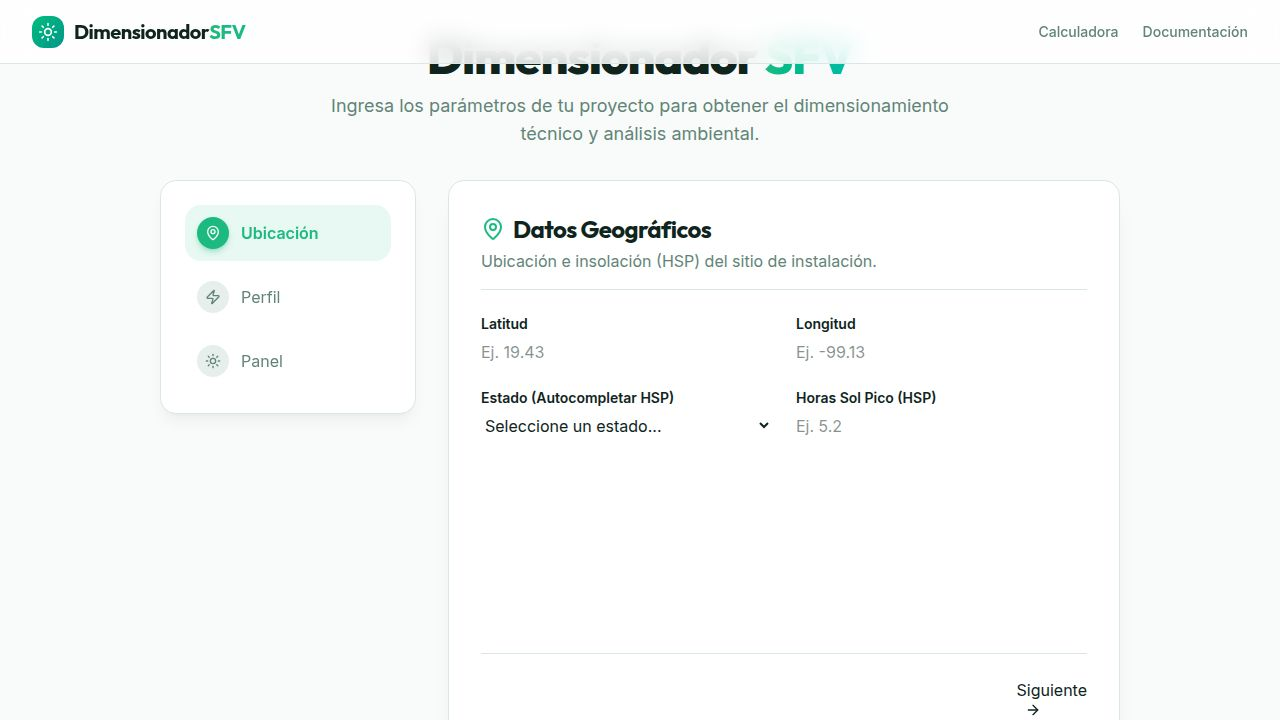
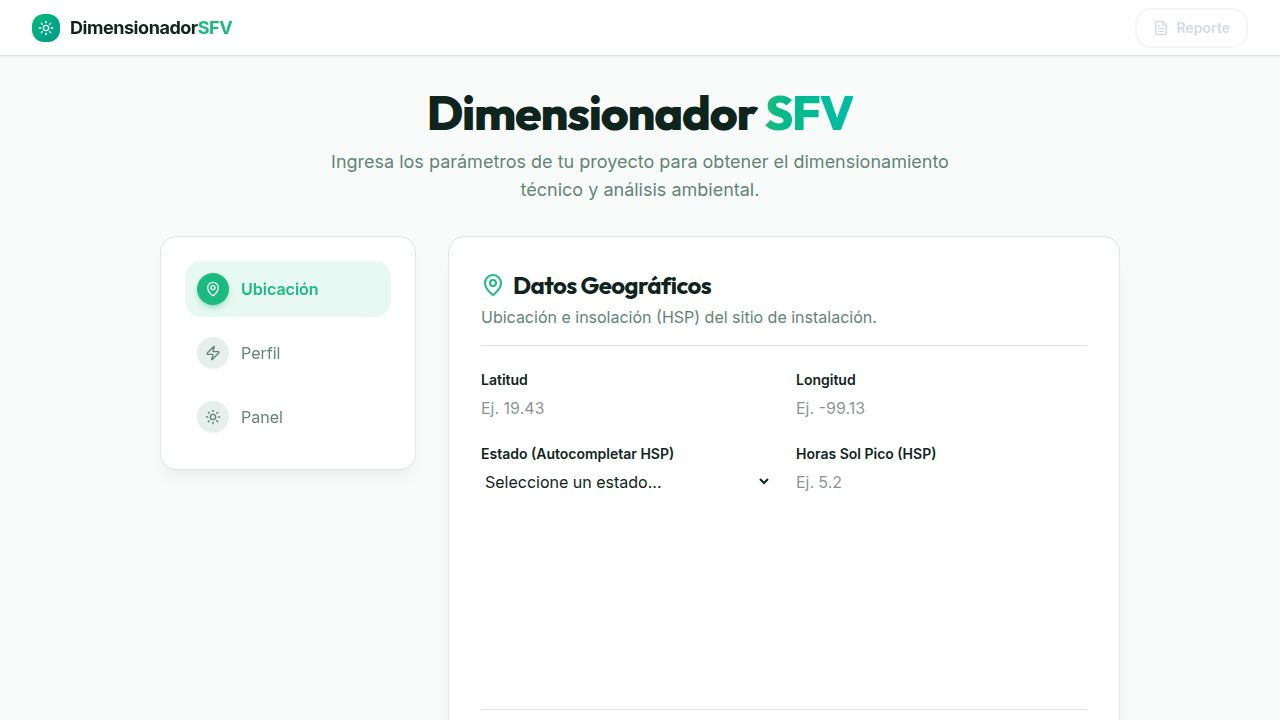
Add functionality to generate PDF reports and improve header display
Adds a PDF report generation utility, updates the header to be sticky, removes unused buttons, and adjusts page padding.

Replit-Commit-Author: Agent
Replit-Commit-Session-Id: e5eae582-5a54-41cc-aaa7-514647a9846a
Replit-Commit-Checkpoint-Type: full_checkpoint
Replit-Commit-Event-Id: b3f8f441-926d-4915-a9c9-da94dcde999f
Replit-Commit-Screenshot-Url: https://storage.googleapis.com/screenshot-production-us-central1/9bccb3e6-cee6-4aa5-baf6-f3cf551272fc/e5eae582-5a54-41cc-aaa7-514647a9846a/8LjCeW0
Replit-Helium-Checkpoint-Created: true

diff --git a/artifacts/sfv-dimensionador/src/lib/generate-pdf.ts b/artifacts/sfv-dimensionador/src/lib/generate-pdf.ts
@@ -1,0 +1,260 @@
+import { SFVResultado } from "@workspace/api-client-react";
+
+function row(label: string, value: string | number) {
+  return `<tr><td class="label">${label}</td><td class="value">${value}</td></tr>`;
+}
+
+function section(title: string, rows: string) {
+  return `
+    <div class="section">
+      <h2>${title}</h2>
+      <table>${rows}</table>
+    </div>`;
+}
+
+export function generatePDF(data: SFVResultado) {
+  const now = new Date().toLocaleDateString("es-MX", {
+    year: "numeric", month: "long", day: "numeric",
+  });
+
+  const paneles = data.paneles;
+  const baterias = data.baterias;
+  const ambiental = data.ambiental;
+
+  const panelesRows = [
+    row("Total de paneles", paneles.totalPaneles),
+    row("Paneles en serie", paneles.panelesSerie),
+    row("Paneles en paralelo", paneles.panelesParalelo),
+    row("Voltaje del sistema", `${paneles.voltajeSistema.toFixed(2)} V`),
+    row("Corriente del sistema", `${paneles.corrienteSistema.toFixed(2)} A`),
+  ].join("");
+
+  const bateriasRows = baterias ? [
+    row("Total de baterías", baterias.totalBaterias),
+    row("Baterías en serie", baterias.bateriasSerie),
+    row("Baterías en paralelo", baterias.bateriasParalelo),
+    row("Voltaje de batería", `${baterias.voltajeBateria} V`),
+    row("Capacidad nominal (Cn)", `${baterias.capacidadNominal.toFixed(2)} Ah`),
+    row("Profundidad de descarga (DoD)", `${(baterias.dod * 100).toFixed(0)}%`),
+  ].join("") : "";
+
+  const electricosRows = [
+    data.inversor ? row("Corriente mínima inversor", `${data.inversor.corrienteMinima.toFixed(2)} A`) : "",
+    data.regulador ? row("Corriente mínima regulador", `${data.regulador.corrienteMinima.toFixed(2)} A`) : "",
+    row("Corriente mínima cableado", `${data.cableado.corrienteMinima.toFixed(2)} A`),
+    data.protecciones ? row("Corriente fusible CC", `${data.protecciones.corrienteFusible.toFixed(2)} A`) : "",
+    data.protecciones?.breakerCC !== undefined ? row("Breaker CC", `${data.protecciones.breakerCC.toFixed(2)} A`) : "",
+    data.protecciones?.seccionadorVoltaje !== undefined ? row("Interruptor seccionador", `${data.protecciones.seccionadorVoltaje.toFixed(2)} V / ${data.protecciones.seccionadorCorriente?.toFixed(2)} A`) : "",
+    data.protecciones?.sobretensionesVoltaje !== undefined ? row("Protector sobretensiones", `${data.protecciones.sobretensionesVoltaje.toFixed(2)} V`) : "",
+    data.protecciones?.termomagneticoCorriente !== undefined ? row("Termomagnético CA", `${data.protecciones.termomagneticoCorriente.toFixed(2)} A`) : "",
+  ].join("");
+
+  const ambientalRows = [
+    row("Energía anual (1er año)", `${ambiental.energiaAnualKwh.toFixed(2)} kWh`),
+    row("Ahorro CO₂ (1er año)", `${ambiental.ahorroCo2PrimerAnio.toFixed(2)} kg CO₂`),
+    row("Ahorro CO₂ total (25 años)", `${ambiental.ahorroCo2TotalTon.toFixed(3)} Ton CO₂`),
+  ].join("");
+
+  const co2Table = ambiental.vectorAhorrosCo2.slice(0, 10).map((val, i) =>
+    `<tr><td class="label">Año ${i + 1}</td><td class="value">${val.toFixed(2)} kg CO₂</td><td class="value">${ambiental.vectorDegradacion[i].toFixed(2)} kWh</td></tr>`
+  ).join("");
+
+  const html = `<!DOCTYPE html>
+<html lang="es">
+<head>
+  <meta charset="UTF-8" />
+  <title>Reporte de Dimensionamiento SFV</title>
+  <style>
+    * { box-sizing: border-box; margin: 0; padding: 0; }
+    body {
+      font-family: 'Helvetica Neue', Helvetica, Arial, sans-serif;
+      font-size: 12px;
+      color: #1e293b;
+      background: #fff;
+      padding: 0;
+    }
+    .cover {
+      padding: 60px 60px 40px;
+      border-bottom: 4px solid #10b981;
+    }
+    .cover-logo {
+      display: flex;
+      align-items: center;
+      gap: 10px;
+      margin-bottom: 40px;
+    }
+    .cover-logo .dot {
+      width: 28px; height: 28px;
+      background: linear-gradient(135deg, #10b981, #14b8a6);
+      border-radius: 8px;
+    }
+    .cover-logo span {
+      font-size: 18px;
+      font-weight: 800;
+      color: #1e293b;
+      letter-spacing: -0.5px;
+    }
+    .cover-logo span em { font-style: normal; color: #10b981; }
+    h1 {
+      font-size: 28px;
+      font-weight: 900;
+      color: #0f172a;
+      line-height: 1.2;
+      margin-bottom: 8px;
+    }
+    .subtitle {
+      font-size: 13px;
+      color: #64748b;
+      margin-bottom: 32px;
+    }
+    .summary-grid {
+      display: grid;
+      grid-template-columns: repeat(3, 1fr);
+      gap: 16px;
+      margin-top: 24px;
+    }
+    .summary-card {
+      border: 1.5px solid #e2e8f0;
+      border-radius: 12px;
+      padding: 16px;
+    }
+    .summary-card .card-label {
+      font-size: 10px;
+      font-weight: 700;
+      text-transform: uppercase;
+      letter-spacing: 0.8px;
+      color: #94a3b8;
+      margin-bottom: 6px;
+    }
+    .summary-card .card-value {
+      font-size: 22px;
+      font-weight: 900;
+      color: #0f172a;
+    }
+    .summary-card .card-unit {
+      font-size: 11px;
+      color: #64748b;
+      margin-left: 2px;
+      font-weight: 600;
+    }
+    .content { padding: 32px 60px 60px; }
+    .section {
+      margin-bottom: 28px;
+      page-break-inside: avoid;
+    }
+    h2 {
+      font-size: 14px;
+      font-weight: 800;
+      color: #10b981;
+      text-transform: uppercase;
+      letter-spacing: 0.8px;
+      margin-bottom: 10px;
+      padding-bottom: 6px;
+      border-bottom: 2px solid #d1fae5;
+    }
+    table { width: 100%; border-collapse: collapse; }
+    tr:nth-child(even) td { background: #f8fafc; }
+    td { padding: 7px 12px; border: 1px solid #e2e8f0; }
+    td.label { color: #475569; font-weight: 600; width: 55%; }
+    td.value { color: #0f172a; font-weight: 700; text-align: right; }
+    th {
+      padding: 7px 12px;
+      background: #f0fdf4;
+      color: #065f46;
+      font-weight: 700;
+      font-size: 11px;
+      text-transform: uppercase;
+      text-align: left;
+      border: 1px solid #d1fae5;
+    }
+    .footer {
+      margin-top: 40px;
+      padding-top: 16px;
+      border-top: 1.5px solid #e2e8f0;
+      font-size: 10px;
+      color: #94a3b8;
+      display: flex;
+      justify-content: space-between;
+    }
+    @media print {
+      body { -webkit-print-color-adjust: exact; print-color-adjust: exact; }
+      .cover { padding: 40px 48px 32px; }
+      .content { padding: 24px 48px 48px; }
+    }
+  </style>
+</head>
+<body>
+  <div class="cover">
+    <div class="cover-logo">
+      <div class="dot"></div>
+      <span>Dimensionador<em>SFV</em></span>
+    </div>
+    <h1>Reporte de Dimensionamiento<br>Fotovoltaico</h1>
+    <p class="subtitle">Generado el ${now} — Resultados técnicos del sistema calculado</p>
+    <div class="summary-grid">
+      <div class="summary-card">
+        <div class="card-label">Energía diaria</div>
+        <div class="card-value">${data.energiaDiariaKwh.toFixed(2)}<span class="card-unit">kWh/día</span></div>
+      </div>
+      <div class="summary-card">
+        <div class="card-label">Potencia demandada</div>
+        <div class="card-value">${data.potenciaDemandaKw.toFixed(2)}<span class="card-unit">kW</span></div>
+      </div>
+      <div class="summary-card">
+        <div class="card-label">Total paneles</div>
+        <div class="card-value">${paneles.totalPaneles}<span class="card-unit">módulos</span></div>
+      </div>
+      ${baterias ? `
+      <div class="summary-card">
+        <div class="card-label">Total baterías</div>
+        <div class="card-value">${baterias.totalBaterias}<span class="card-unit">unidades</span></div>
+      </div>` : ""}
+      <div class="summary-card">
+        <div class="card-label">Ahorro CO₂ (Año 1)</div>
+        <div class="card-value">${ambiental.ahorroCo2PrimerAnio.toFixed(1)}<span class="card-unit">kg CO₂</span></div>
+      </div>
+      <div class="summary-card">
+        <div class="card-label">Ahorro CO₂ (25 Años)</div>
+        <div class="card-value">${ambiental.ahorroCo2TotalTon.toFixed(2)}<span class="card-unit">Ton</span></div>
+      </div>
+    </div>
+  </div>
+
+  <div class="content">
+    ${section("Arreglo Fotovoltaico (Paneles)", panelesRows)}
+    ${baterias ? section("Banco de Baterías", bateriasRows) : ""}
+    ${section("Componentes Eléctricos", electricosRows)}
+    ${section("Análisis Ambiental (Resumen)", ambientalRows)}
+
+    <div class="section">
+      <h2>Proyección CO₂ y Energía — Primeros 10 Años</h2>
+      <table>
+        <thead>
+          <tr>
+            <th>Año</th>
+            <th style="text-align:right">Ahorro CO₂ (kg)</th>
+            <th style="text-align:right">Energía generada (kWh)</th>
+          </tr>
+        </thead>
+        <tbody>${co2Table}</tbody>
+      </table>
+    </div>
+
+    <div class="footer">
+      <span>DimensionadorSFV — Herramienta de dimensionamiento de sistemas fotovoltaicos</span>
+      <span>Reporte generado: ${now}</span>
+    </div>
+  </div>
+
+  <script>window.onload = () => { window.print(); }</script>
+</body>
+</html>`;
+
+  const win = window.open("", "_blank");
+  if (!win) {
+    alert("Permite las ventanas emergentes para generar el PDF.");
+    return;
+  }
+  win.document.write(html);
+  win.document.close();
+}

diff --git a/artifacts/sfv-dimensionador/src/components/layout/header.tsx b/artifacts/sfv-dimensionador/src/components/layout/header.tsx
@@ -1,22 +1,36 @@
 import { Link } from "wouter";
-import { Sun } from "lucide-react";
+import { Sun, FileText } from "lucide-react";
 
-export function Header() {
+interface HeaderProps {
+  hasResult: boolean;
+  onReport: () => void;
+}
+
+export function Header({ hasResult, onReport }: HeaderProps) {
   return (
-    <header className="fixed top-0 left-0 right-0 h-16 bg-white/80 backdrop-blur-md border-b border-border z-50">
+    <header className="sticky top-0 z-50 h-14 bg-white/90 backdrop-blur-md border-b border-border shadow-sm shadow-black/5">
       <div className="max-w-7xl mx-auto px-4 sm:px-6 lg:px-8 h-full flex items-center justify-between">
-        <Link href="/" className="flex items-center gap-2.5 group">
+        <Link href="/" className="flex items-center gap-2.5 group shrink-0">
           <div className="p-1.5 bg-gradient-to-br from-emerald-500 to-teal-600 rounded-lg text-white group-hover:shadow-lg group-hover:shadow-primary/20 transition-all">
-            <Sun className="w-5 h-5" />
+            <Sun className="w-4 h-4" />
           </div>
-          <span className="font-display font-bold text-xl text-foreground tracking-tight">
+          <span className="font-bold text-lg text-foreground tracking-tight whitespace-nowrap">
             Dimensionador<span className="text-primary">SFV</span>
           </span>
         </Link>
-        <nav className="flex items-center gap-6">
-          <Link href="/" className="text-sm font-medium text-muted-foreground hover:text-primary transition-colors">Calculadora</Link>
-          <a href="#" className="text-sm font-medium text-muted-foreground hover:text-primary transition-colors">Documentación</a>
-        </nav>
+
+        <button
+          onClick={onReport}
+          disabled={!hasResult}
+          title={hasResult ? "Generar reporte PDF" : "Realiza un cálculo primero"}
+          className="flex items-center gap-2 px-4 py-2 rounded-xl text-sm font-semibold border-2 transition-all
+            disabled:opacity-40 disabled:cursor-not-allowed
+            enabled:border-primary/30 enabled:text-primary enabled:hover:bg-primary/5 enabled:hover:border-primary/60 enabled:hover:shadow-sm
+            border-slate-200 text-slate-400"
+        >
+          <FileText className="w-4 h-4" />
+          Reporte
+        </button>
       </div>
     </header>
   );

diff --git a/artifacts/sfv-dimensionador/src/App.tsx b/artifacts/sfv-dimensionador/src/App.tsx
@@ -1,9 +1,12 @@
+import { useState } from "react";
 import { Switch, Route, Router as WouterRouter } from "wouter";
 import { QueryClient, QueryClientProvider } from "@tanstack/react-query";
 import { Toaster } from "@/components/ui/toaster";
 import { TooltipProvider } from "@/components/ui/tooltip";
 import CalculatorPage from "@/pages/calculator";
 import { Header } from "@/components/layout/header";
+import { SFVResultado } from "@workspace/api-client-react";
+import { generatePDF } from "@/lib/generate-pdf";
 
 const queryClient = new QueryClient();
 
@@ -19,27 +22,25 @@ function NotFound() {
   );
 }
 
-function Router() {
-  return (
-    <Switch>
-      <Route path="/" component={CalculatorPage} />
-      <Route component={NotFound} />
-    </Switch>
-  );
-}
-
 function App() {
+  const [result, setResult] = useState<SFVResultado | null>(null);
+
   return (
     <QueryClientProvider client={queryClient}>
       <TooltipProvider>
         <WouterRouter base={import.meta.env.BASE_URL.replace(/\/$/, "")}>
           <div className="min-h-screen bg-background relative selection:bg-primary/20">
-            {/* Background decorative elements */}
             <div className="fixed top-0 left-1/2 -translate-x-1/2 w-[1000px] h-[400px] bg-primary/5 rounded-full blur-[100px] pointer-events-none -z-10" />
             <div className="fixed top-1/4 right-0 w-[500px] h-[500px] bg-teal-500/5 rounded-full blur-[120px] pointer-events-none -z-10" />
-            
-            <Header />
-            <Router />
+
+            <Header
+              hasResult={!!result}
+              onReport={() => result && generatePDF(result)}
+            />
+            <Switch>
+              <Route path="/">{() => <CalculatorPage result={result} setResult={setResult} />}</Route>
+              <Route component={NotFound} />
+            </Switch>
           </div>
         </WouterRouter>
         <Toaster />

diff --git a/artifacts/sfv-dimensionador/src/pages/calculator.tsx b/artifacts/sfv-dimensionador/src/pages/calculator.tsx
@@ -72,9 +72,13 @@ const STEPS = [
   { id: 4, title: "Panel",     icon: Sun },
 ];
 
-export default function CalculatorPage() {
+interface CalculatorPageProps {
+  result: SFVResultado | null;
+  setResult: (r: SFVResultado | null) => void;
+}
+
+export default function CalculatorPage({ result, setResult }: CalculatorPageProps) {
   const [activeStep, setActiveStep] = useState(1);
-  const [result, setResult] = useState<SFVResultado | null>(null);
   const { toast } = useToast();
 
   const calculateMutation = useCalcularSFV();
@@ -166,14 +170,14 @@ export default function CalculatorPage() {
 
   if (result) {
     return (
-      <div className="max-w-7xl mx-auto p-4 md:p-8 pt-24">
+      <div className="max-w-7xl mx-auto p-4 md:p-8 pt-6">
         <ResultsView data={result} onReset={() => setResult(null)} />
       </div>
     );
   }
 
   return (
-    <div className="max-w-5xl mx-auto p-4 md:p-8 pt-24 min-h-screen flex flex-col">
+    <div className="max-w-5xl mx-auto p-4 md:p-8 pt-6 min-h-screen flex flex-col">
       <div className="mb-8 text-center animate-in fade-in slide-in-from-top-4 duration-500">
         <h1 className="text-3xl md:text-5xl font-extrabold text-foreground tracking-tight">
           Dimensionador <span className="text-transparent bg-clip-text bg-gradient-to-r from-primary to-teal-500">SFV</span>